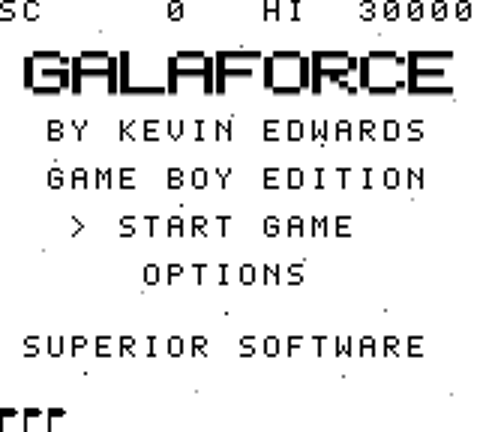
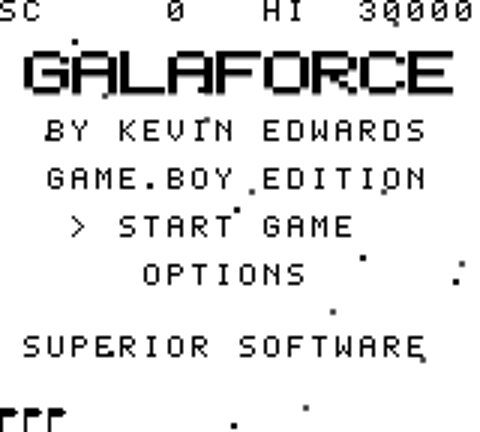
Title: falling star sprites like the in-game starfield

diff --git a/tools/gen_art.py b/tools/gen_art.py
@@ -107,6 +107,12 @@ for y, row in enumerate(shape):
 bomb[8][3] = bomb[8][4] = bomb[9][3] = bomb[9][4] = 3   # darker core so it reads as a glowing orb
 syms.append(("SPR_BOMB", len(obj) // 16))
 obj.extend(tile8(bomb[0:8]) + tile8(bomb[8:16]))
+# title star: 2x2 dot (8x16 object)
+st = [[0]*8 for _ in range(16)]
+for y in (0, 1):
+    for x in (3, 4): st[y][x] = 1
+syms.append(("SPR_STAR", len(obj) // 16))
+obj.extend(tile8(st[0:8]) + tile8(st[8:16]))
 FONTOBJ0 = len(obj) // 16
 for ch in CHARS:
     px = [[0]*8 for _ in range(8)]

diff --git a/docs/PROGRESS.md b/docs/PROGRESS.md
@@ -25,6 +25,6 @@
 - Stage 12 done: options menu (lives 1-5, black/white background), persisted in SRAM `$A010`; `tools/optionstest.py` passes. Makefile now rebuilds gfx when `font5x7.py` changes.
 - White background is now the default (a saved setting still overrides it).
 - Title redesigned after the BBC original: HUD line (SC/HI) on top, wide red-style GALAFORCE, BY KEVIN EDWARDS, SUPERIOR SOFTWARE, flags bottom-left, static starfield.
-- Title stars are static again; the GALAFORCE logo gets an occasional grey shine sweep (every ~8.5 s, 80 frames, one tile rewritten per frame from ROM).
+- Title stars are falling sprites (behind the logo and text via BG priority, two speeds and palettes), like the in-game starfield; the logo also gets an occasional grey shine sweep (every ~8.5 s).
 - Enemy bombs (all waves; extra random bombs from wave 4) redrawn as a fat 6x12 solid drop in the max-contrast palette index, visible in both background modes.
 - Cheat: on the options screen press UP UP DOWN DOWN SELECT to reveal a LEVEL row (1-16, not saved; demo ignores it). Test: tools/cheattest.py.

diff --git a/README.md b/README.md
@@ -17,7 +17,7 @@ A Game Boy (DMG) remake of Kevin Edwards' BBC Micro shoot-'em-up *Galaforce* (19
 D-pad move, A fire, Start pause, A+B+Select+Start soft reset. Title and options: Up/Down select, A or Start choose, Left/Right change a value, B go back.
 
 ## Features
-- Title styled after the BBC original (SC/HI line, wide logo, credits, flags, occasional shine sweep). Idles into a self-playing demo after about 13 s; any Start returns.
+- Title styled after the BBC original (SC/HI line, wide logo, credits, flags, occasional shine sweep, falling stars). Idles into a self-playing demo after about 13 s; any Start returns.
 - Options: starting lives 1-5 and a black or white background (white is the default); both are saved in battery RAM.
 - Cheat: on the options screen press Up, Up, Down, Down, Select to unlock a LEVEL row (1-16, not saved).
 - Screen fades, pause dimming, hi-score saved to SRAM.
